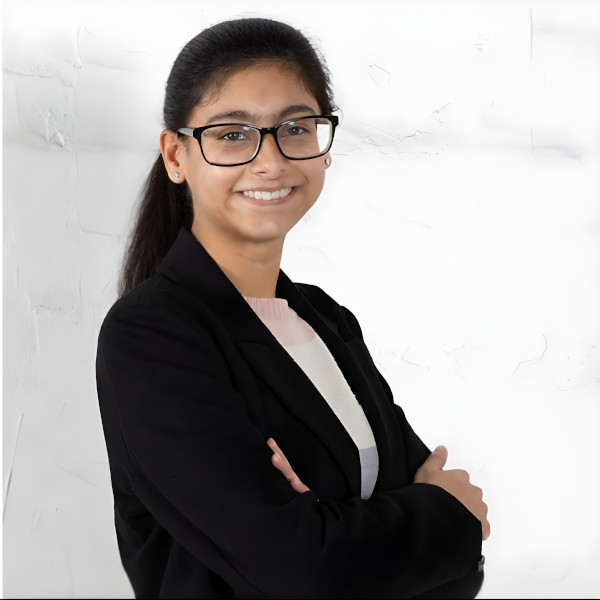
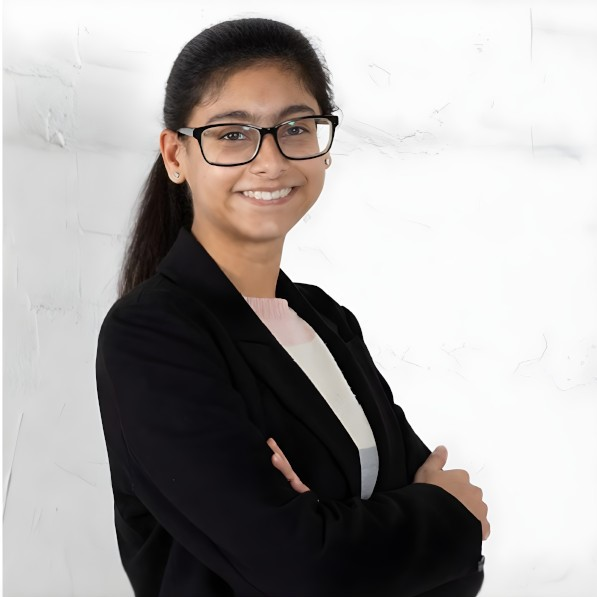
fixing single click

diff --git a/index.html b/index.html
@@ -52,19 +52,16 @@
     </a>
 
     <div class="social-links text-center">
-      <a href="#" class="twitter"><i class="bi bi-twitter-x"></i></a>
-      <a href="#" class="facebook"><i class="bi bi-facebook"></i></a>
-      <a href="#" class="instagram"><i class="bi bi-instagram"></i></a>
+      <a href="https://www.instagram.com/shruti_archistudio" class="instagram"><i class="bi bi-instagram"></i></a>
       <a href="http://linkedin.com/in/shruti-r-a570221b3" class="linkedin"><i class="bi bi-linkedin"></i></a>
     </div>
 
     <nav id="navmenu" class="navmenu">
       <ul>
         <li><a href="#hero" class="active"><i class="bi bi-house navicon"></i>Home</a></li>
-        <li><a href="#about"><i class="bi bi-person navicon"></i> About</a></li>
-        <li><a href="#portfolio"><i class="bi bi-images navicon"></i> Portfolio</a></li>
-        <li><a href="#resume"><i class="bi bi-file-earmark-text navicon"></i> Resume</a></li>
-        <li><a href="#contact"><i class="bi bi-envelope navicon"></i> Contact</a></li>
+        <li><a href="#about"><i class="bi bi-person navicon"></i>About</a></li>
+        <li><a href="#portfolio"><i class="bi bi-images navicon"></i>Portfolio</a></li>
+        <li><a href="#resume"><i class="bi bi-file-earmark-text navicon"></i>Resume</a></li>
       </ul>
     </nav>
 
@@ -156,71 +153,93 @@
 
           <div class="row gy-4 isotope-container" data-aos="fade-up" data-aos-delay="200">
 
+            
             <div class="col-lg-4 col-md-6 portfolio-item isotope-item filter-professional">
-              <div class="portfolio-content h-100">
-                <img src="assets/img/portfolio/studio-apartment/concept.png" class="img-fluid" alt="">
-                <div class="portfolio-info">
-                  <h4>Professional</h4>
-                  <p>Backyard Studio Apartment</p>
-                  <a href="portfolio-studio-apartment.html" title="More Details" class="details-link"><i class="bi bi-link-45deg"></i></a>
+              <a href="portfolio-studio-apartment.html" title="More Details">
+                <div class="portfolio-content h-100">
+                  <img src="assets/img/portfolio/studio-apartment/concept.png" class="img-fluid" alt="">
+                  <div class="portfolio-info">
+                    <h4>Professional</h4>
+                    <p>Backyard Studio Apartment</p>
+                    <i class="bi bi-link-45deg"></i>
+                  </div>
                 </div>
-              </div>
-            </div><!-- End Portfolio Item -->
+              </a>
+            </div>
+            <!-- End Portfolio Item -->
 
+           
             <div class="col-lg-4 col-md-6 portfolio-item isotope-item filter-competition">
-              <div class="portfolio-content h-100">
-                <img src="assets/img/portfolio/hexacell-residence/main.png" class="img-fluid" alt="">
-                <div class="portfolio-info">
-                  <h4>Architecture Competition</h4>
-                  <p>Fleetwood Challenge Cup: The Hexa-Cell Residence</p>
-                  <a href="portfolio-hexacell-residence.html" title="More Details" class="details-link"><i class="bi bi-link-45deg"></i></a>
-                </div>
+              <a href="portfolio-hexacell-residence.html" title="More Details" class="details-link">
+                <div class="portfolio-content h-100">
+                  <img src="assets/img/portfolio/hexacell-residence/main.png" class="img-fluid" alt="">
+                  <div class="portfolio-info">
+                    <h4>Architecture Competition</h4>
+                    <p>Fleetwood Challenge Cup: The Hexa-Cell Residence</p>
+                  </div>
               </div>
-            </div><!-- End Portfolio Item -->
+              </a>
+            </div>
+            <!-- End Portfolio Item -->
 
+            
             <div class="col-lg-4 col-md-6 portfolio-item isotope-item filter-university">
-              <div class="portfolio-content h-100">
-                <img src="assets/img/portfolio/northwest-montessori-preschool/main.png" class="img-fluid" alt="">
-                <div class="portfolio-info">
-                  <h4>University Studio Project</h4>
-                  <p>Northwest Montessori Preschool Revival</p>
-                  <a href="portfolio-northwest-montessori.html" title="More Details" class="details-link"><i class="bi bi-link-45deg"></i></a>
+              <a href="portfolio-northwest-montessori.html" title="More Details" class="details-link">
+                <div class="portfolio-content h-100">
+                  <img src="assets/img/portfolio/northwest-montessori-preschool/main.png" class="img-fluid" alt="">
+                  <div class="portfolio-info">
+                    <h4>University Studio Project</h4>
+                    <p>Northwest Montessori Preschool Revival</p>
+                  </div>
                 </div>
-              </div>
-            </div><!-- End Portfolio Item -->
+              </a>
+            </div>
+            <!-- End Portfolio Item -->
 
-             <div class="col-lg-4 col-md-6 portfolio-item isotope-item filter-university">
-              <div class="portfolio-content h-100">
-                <img src="assets/img/portfolio/cooinda-fitzroy/main.png" class="img-fluid" alt="">
-                <div class="portfolio-info">
-                  <h4>University Studio Project</h4>
-                  <p>Cooinda Fitzroy: Co-housing Community</p>
-                  <a href="portfolio-cooinda-fitzroy.html" title="More Details" class="details-link"><i class="bi bi-link-45deg"></i></a>
-                </div>
-              </div>
-            </div><!-- End Portfolio Item -->
-
+            
             <div class="col-lg-4 col-md-6 portfolio-item isotope-item filter-university">
-              <div class="portfolio-content h-100">
-                <img src="assets/img/portfolio/youth-corner/main.png" class="img-fluid" alt="">
-                <div class="portfolio-info">
-                  <h4>University Studio Project</h4>
-                  <p>Youth Corner</p>
-                  <a href="portfolio-youth-corner.html" title="More Details" class="details-link"><i class="bi bi-link-45deg"></i></a>
+              <a href="portfolio-cooinda-fitzroy.html" title="More Details" class="details-link"> 
+                <div class="portfolio-content h-100">
+                  <img src="assets/img/portfolio/cooinda-fitzroy/main.png" class="img-fluid" alt="">
+                  <div class="portfolio-info">
+                    <h4>University Studio Project</h4>
+                    <p>Cooinda Fitzroy: Co-housing Community</p>
+                    <i class="bi bi-link-45deg"></i>
+                  </div>
                 </div>
-              </div>
-            </div><!-- End Portfolio Item -->
+              </a>
+            </div>
+            <!-- End Portfolio Item -->
 
+            
             <div class="col-lg-4 col-md-6 portfolio-item isotope-item filter-university">
-              <div class="portfolio-content h-100">
-                <img src="assets/img/portfolio/cafe/main.png" class="img-fluid" alt="">
-                <div class="portfolio-info">
-                  <h4>University Studio Project</h4>
-                  <p>Go and Get It Cafe</p>
-                  <a href="portfolio-cafe.html" title="More Details" class="details-link"><i class="bi bi-link-45deg"></i></a>
+              <a href="portfolio-youth-corner.html" title="More Details" class="details-link">
+                <div class="portfolio-content h-100">
+                  <img src="assets/img/portfolio/youth-corner/main.png" class="img-fluid" alt="">
+                  <div class="portfolio-info">
+                    <h4>University Studio Project</h4>
+                    <p>Youth Corner</p>
+                    <i class="bi bi-link-45deg"></i>
+                  </div>
                 </div>
-              </div>
-            </div><!-- End Portfolio Item -->
+              </a>
+            </div>
+            <!-- End Portfolio Item -->
+
+           
+            <div class="col-lg-4 col-md-6 portfolio-item isotope-item filter-university">
+              <a href="portfolio-cafe.html" title="More Details" class="details-link">
+                <div class="portfolio-content h-100">
+                  <img src="assets/img/portfolio/cafe/main.png" class="img-fluid" alt="">
+                  <div class="portfolio-info">
+                    <h4>University Studio Project</h4>
+                    <p>Go and Get It Cafe</p>
+                  </div>
+                </div>
+              </a>
+            </div>
+            
+            <!-- End Portfolio Item -->
 
           </div><!-- End Portfolio Container -->
 
@@ -306,92 +325,6 @@
       </div>
 
     </section><!-- /Resume Section -->
-
-    <!-- Contact Section -->
-    <section id="contact" class="contact section light-background">
-
-      <!-- Section Title -->
-      <div class="container section-title" data-aos="fade-up">
-        <h2>Contact</h2>
-        <p>Necessitatibus eius consequatur ex aliquid fuga eum quidem sint consectetur velit</p>
-      </div><!-- End Section Title -->
-
-      <div class="container" data-aos="fade-up" data-aos-delay="100">
-
-        <div class="row gy-4">
-
-          <div class="col-lg-5">
-
-            <div class="info-wrap">
-              <div class="info-item d-flex" data-aos="fade-up" data-aos-delay="200">
-                <i class="bi bi-geo-alt flex-shrink-0"></i>
-                <div>
-                  <h3>Address</h3>
-                  <p>A108 Adam Street, New York, NY 535022</p>
-                </div>
-              </div><!-- End Info Item -->
-
-              <div class="info-item d-flex" data-aos="fade-up" data-aos-delay="300">
-                <i class="bi bi-telephone flex-shrink-0"></i>
-                <div>
-                  <h3>Call Us</h3>
-                  <p>+1 5589 55488 55</p>
-                </div>
-              </div><!-- End Info Item -->
-
-              <div class="info-item d-flex" data-aos="fade-up" data-aos-delay="400">
-                <i class="bi bi-envelope flex-shrink-0"></i>
-                <div>
-                  <h3>Email Us</h3>
-                  <p>info@example.com</p>
-                </div>
-              </div><!-- End Info Item -->
-
-              <iframe src="https://www.google.com/maps/embed?pb=!1m14!1m8!1m3!1d48389.78314118045!2d-74.006138!3d40.710059!3m2!1i1024!2i768!4f13.1!3m3!1m2!1s0x89c25a22a3bda30d%3A0xb89d1fe6bc499443!2sDowntown%20Conference%20Center!5e0!3m2!1sen!2sus!4v1676961268712!5m2!1sen!2sus" frameborder="0" style="border:0; width: 100%; height: 270px;" allowfullscreen="" loading="lazy" referrerpolicy="no-referrer-when-downgrade"></iframe>
-            </div>
-          </div>
-
-          <div class="col-lg-7">
-            <form action="forms/contact.php" method="post" class="php-email-form" data-aos="fade-up" data-aos-delay="200">
-              <div class="row gy-4">
-
-                <div class="col-md-6">
-                  <label for="name-field" class="pb-2">Your Name</label>
-                  <input type="text" name="name" id="name-field" class="form-control" required="">
-                </div>
-
-                <div class="col-md-6">
-                  <label for="email-field" class="pb-2">Your Email</label>
-                  <input type="email" class="form-control" name="email" id="email-field" required="">
-                </div>
-
-                <div class="col-md-12">
-                  <label for="subject-field" class="pb-2">Subject</label>
-                  <input type="text" class="form-control" name="subject" id="subject-field" required="">
-                </div>
-
-                <div class="col-md-12">
-                  <label for="message-field" class="pb-2">Message</label>
-                  <textarea class="form-control" name="message" rows="10" id="message-field" required=""></textarea>
-                </div>
-
-                <div class="col-md-12 text-center">
-                  <div class="loading">Loading</div>
-                  <div class="error-message"></div>
-                  <div class="sent-message">Your message has been sent. Thank you!</div>
-
-                  <button type="submit">Send Message</button>
-                </div>
-
-              </div>
-            </form>
-          </div><!-- End Contact Form -->
-
-        </div>
-
-      </div>
-
-    </section><!-- /Contact Section -->
 
   </main>
 

diff --git a/portfolio-cafe.html b/portfolio-cafe.html
@@ -52,9 +52,7 @@
     </a>
 
     <div class="social-links text-center">
-      <a href="#" class="twitter"><i class="bi bi-twitter-x"></i></a>
-      <a href="#" class="facebook"><i class="bi bi-facebook"></i></a>
-      <a href="#" class="instagram"><i class="bi bi-instagram"></i></a>
+      <a href="https://www.instagram.com/shruti_archistudio" class="instagram"><i class="bi bi-instagram"></i></a>
       <a href="http://linkedin.com/in/shruti-r-a570221b3" class="linkedin"><i class="bi bi-linkedin"></i></a>
     </div>
 
@@ -62,9 +60,8 @@
       <ul>
         <li><a href="index.html#hero" class="active"><i class="bi bi-house navicon"></i>Home</a></li>
         <li><a href="index.html#about"><i class="bi bi-person navicon"></i> About</a></li>
-        <li><a href="index.html#resume"><i class="bi bi-file-earmark-text navicon"></i> Resume</a></li>
         <li><a href="index.html#portfolio"><i class="bi bi-images navicon"></i> Portfolio</a></li>
-        <li><a href="index.html#contact"><i class="bi bi-envelope navicon"></i> Contact</a></li>
+        <li><a href="index.html#resume"><i class="bi bi-file-earmark-text navicon"></i> Resume</a></li>
       </ul>
     </nav>
 

diff --git a/portfolio-cooinda-fitzroy.html b/portfolio-cooinda-fitzroy.html
@@ -52,9 +52,7 @@
     </a>
 
     <div class="social-links text-center">
-      <a href="#" class="twitter"><i class="bi bi-twitter-x"></i></a>
-      <a href="#" class="facebook"><i class="bi bi-facebook"></i></a>
-      <a href="#" class="instagram"><i class="bi bi-instagram"></i></a>
+      <a href="https://www.instagram.com/shruti_archistudio" class="instagram"><i class="bi bi-instagram"></i></a>
       <a href="http://linkedin.com/in/shruti-r-a570221b3" class="linkedin"><i class="bi bi-linkedin"></i></a>
     </div>
 
@@ -62,9 +60,8 @@
       <ul>
         <li><a href="index.html#hero" class="active"><i class="bi bi-house navicon"></i>Home</a></li>
         <li><a href="index.html#about"><i class="bi bi-person navicon"></i> About</a></li>
-        <li><a href="index.html#resume"><i class="bi bi-file-earmark-text navicon"></i> Resume</a></li>
         <li><a href="index.html#portfolio"><i class="bi bi-images navicon"></i> Portfolio</a></li>
-        <li><a href="index.html#contact"><i class="bi bi-envelope navicon"></i> Contact</a></li>
+        <li><a href="index.html#resume"><i class="bi bi-file-earmark-text navicon"></i> Resume</a></li>
       </ul>
     </nav>
 

diff --git a/portfolio-hexacell-residence.html b/portfolio-hexacell-residence.html
@@ -52,9 +52,7 @@
     </a>
 
     <div class="social-links text-center">
-      <a href="#" class="twitter"><i class="bi bi-twitter-x"></i></a>
-      <a href="#" class="facebook"><i class="bi bi-facebook"></i></a>
-      <a href="#" class="instagram"><i class="bi bi-instagram"></i></a>
+      <a href="https://www.instagram.com/shruti_archistudio" class="instagram"><i class="bi bi-instagram"></i></a>
       <a href="http://linkedin.com/in/shruti-r-a570221b3" class="linkedin"><i class="bi bi-linkedin"></i></a>
     </div>
 
@@ -62,9 +60,8 @@
       <ul>
         <li><a href="index.html#hero" class="active"><i class="bi bi-house navicon"></i>Home</a></li>
         <li><a href="index.html#about"><i class="bi bi-person navicon"></i> About</a></li>
-        <li><a href="index.html#resume"><i class="bi bi-file-earmark-text navicon"></i> Resume</a></li>
         <li><a href="index.html#portfolio"><i class="bi bi-images navicon"></i> Portfolio</a></li>
-        <li><a href="index.html#contact"><i class="bi bi-envelope navicon"></i> Contact</a></li>
+        <li><a href="index.html#resume"><i class="bi bi-file-earmark-text navicon"></i> Resume</a></li>
       </ul>
     </nav>
 

diff --git a/portfolio-northwest-montessori.html b/portfolio-northwest-montessori.html
@@ -52,9 +52,7 @@
     </a>
 
     <div class="social-links text-center">
-      <a href="#" class="twitter"><i class="bi bi-twitter-x"></i></a>
-      <a href="#" class="facebook"><i class="bi bi-facebook"></i></a>
-      <a href="#" class="instagram"><i class="bi bi-instagram"></i></a>
+      <a href="https://www.instagram.com/shruti_archistudio" class="instagram"><i class="bi bi-instagram"></i></a>
       <a href="http://linkedin.com/in/shruti-r-a570221b3" class="linkedin"><i class="bi bi-linkedin"></i></a>
     </div>
 
@@ -62,9 +60,8 @@
       <ul>
         <li><a href="index.html#hero" class="active"><i class="bi bi-house navicon"></i>Home</a></li>
         <li><a href="index.html#about"><i class="bi bi-person navicon"></i> About</a></li>
-        <li><a href="index.html#resume"><i class="bi bi-file-earmark-text navicon"></i> Resume</a></li>
         <li><a href="index.html#portfolio"><i class="bi bi-images navicon"></i> Portfolio</a></li>
-        <li><a href="index.html#contact"><i class="bi bi-envelope navicon"></i> Contact</a></li>
+        <li><a href="index.html#resume"><i class="bi bi-file-earmark-text navicon"></i> Resume</a></li>
       </ul>
     </nav>
 

diff --git a/portfolio-studio-apartment.html b/portfolio-studio-apartment.html
@@ -52,9 +52,7 @@
     </a>
 
     <div class="social-links text-center">
-      <a href="#" class="twitter"><i class="bi bi-twitter-x"></i></a>
-      <a href="#" class="facebook"><i class="bi bi-facebook"></i></a>
-      <a href="#" class="instagram"><i class="bi bi-instagram"></i></a>
+      <a href="https://www.instagram.com/shruti_archistudio" class="instagram"><i class="bi bi-instagram"></i></a>
       <a href="http://linkedin.com/in/shruti-r-a570221b3" class="linkedin"><i class="bi bi-linkedin"></i></a>
     </div>
 
@@ -62,9 +60,8 @@
       <ul>
         <li><a href="index.html#hero" class="active"><i class="bi bi-house navicon"></i>Home</a></li>
         <li><a href="index.html#about"><i class="bi bi-person navicon"></i> About</a></li>
-        <li><a href="index.html#resume"><i class="bi bi-file-earmark-text navicon"></i> Resume</a></li>
         <li><a href="index.html#portfolio"><i class="bi bi-images navicon"></i> Portfolio</a></li>
-        <li><a href="index.html#contact"><i class="bi bi-envelope navicon"></i> Contact</a></li>
+        <li><a href="index.html#resume"><i class="bi bi-file-earmark-text navicon"></i> Resume</a></li>
       </ul>
     </nav>
 

diff --git a/portfolio-youth-corner.html b/portfolio-youth-corner.html
@@ -52,9 +52,7 @@
     </a>
 
     <div class="social-links text-center">
-      <a href="#" class="twitter"><i class="bi bi-twitter-x"></i></a>
-      <a href="#" class="facebook"><i class="bi bi-facebook"></i></a>
-      <a href="#" class="instagram"><i class="bi bi-instagram"></i></a>
+      <a href="https://www.instagram.com/shruti_archistudio" class="instagram"><i class="bi bi-instagram"></i></a>
       <a href="http://linkedin.com/in/shruti-r-a570221b3" class="linkedin"><i class="bi bi-linkedin"></i></a>
     </div>
 
@@ -62,9 +60,8 @@
       <ul>
         <li><a href="index.html#hero" class="active"><i class="bi bi-house navicon"></i>Home</a></li>
         <li><a href="index.html#about"><i class="bi bi-person navicon"></i> About</a></li>
-        <li><a href="index.html#resume"><i class="bi bi-file-earmark-text navicon"></i> Resume</a></li>
         <li><a href="index.html#portfolio"><i class="bi bi-images navicon"></i> Portfolio</a></li>
-        <li><a href="index.html#contact"><i class="bi bi-envelope navicon"></i> Contact</a></li>
+        <li><a href="index.html#resume"><i class="bi bi-file-earmark-text navicon"></i> Resume</a></li>
       </ul>
     </nav>
 
